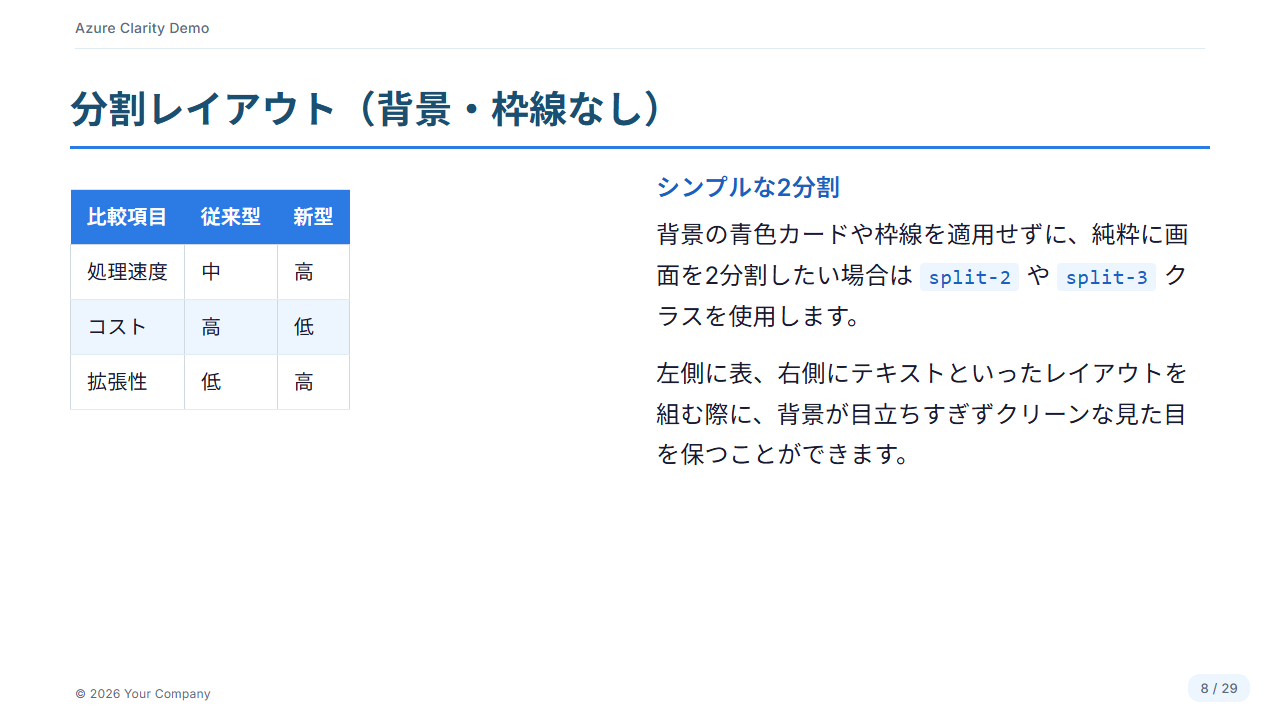
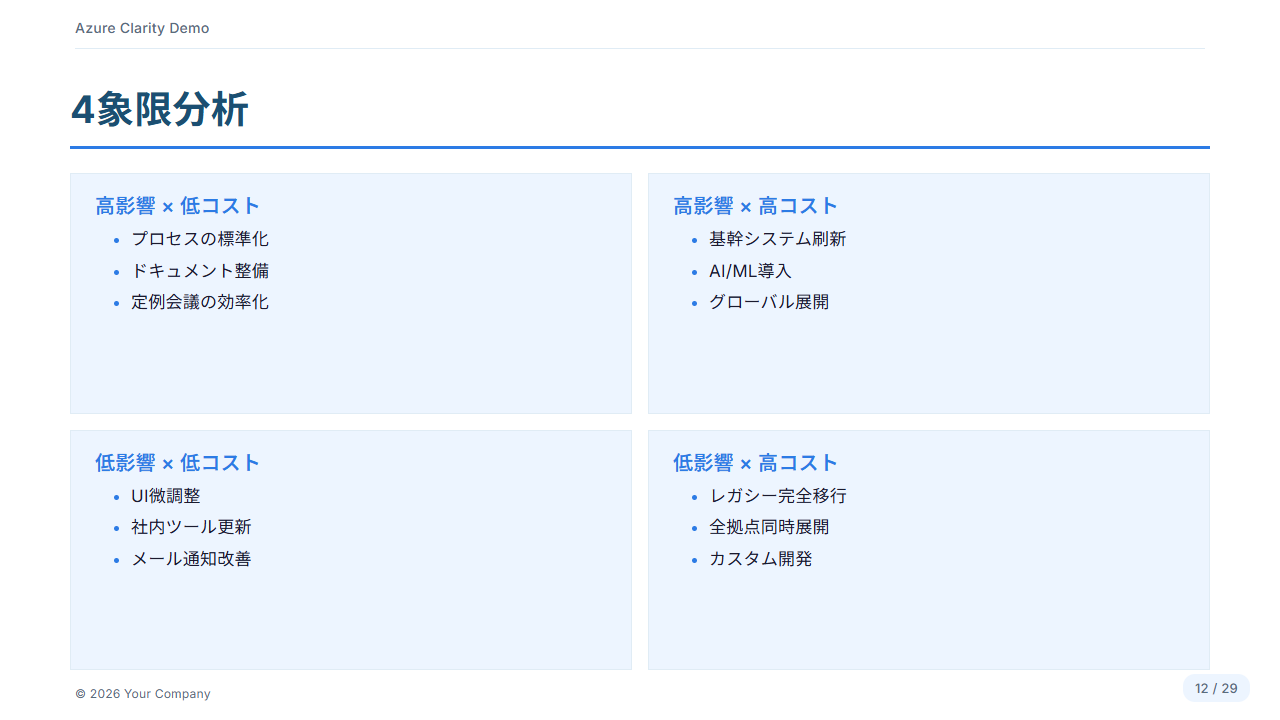
improve readme images

diff --git a/README.md b/README.md
@@ -32,13 +32,15 @@ paginate: true
 ```
 
 <details>
-<summary>📸 スライドプレビュー</summary>
+<summary>📸 Slides Preview</summary>
 
 ![Azure Clarity Cover](assets/screenshots/azure-clarity-cover.png)
 ![Azure Clarity TOC](assets/screenshots/azure-clarity-toc.png)
 ![Azure Clarity Columns](assets/screenshots/azure-clarity-cols.png)
 ![Azure Clarity Grid](assets/screenshots/azure-clarity-grid.png)
 ![Azure Clarity Timeline](assets/screenshots/azure-clarity-timeline.png)
+![Azure Clarity Callout](assets/screenshots/azure-clarity-callout.png)
+![Azure Clarity Step](assets/screenshots/azure-clarity-step.png)
 
 </details>
 
@@ -59,13 +61,15 @@ paginate: true
 ```
 
 <details>
-<summary>📸 スライドプレビュー</summary>
+<summary>📸 Slides Preview</summary>
 
 ![Prism Edge Cover Wave](assets/screenshots/prism-edge-cover-wave.png)
 ![Prism Edge Cover Diagonal](assets/screenshots/prism-edge-cover-diagonal.png)
 ![Prism Edge Cover Noir](assets/screenshots/prism-edge-cover-noir.png)
 ![Prism Edge Columns](assets/screenshots/prism-edge-cols.png)
 ![Prism Edge Grid](assets/screenshots/prism-edge-grid.png)
+![Prism Edge gradnum](assets/screenshots/prism-edge-gradnum.png)
+![Prism Edge statnum](assets/screenshots/prism-edge-statnum.png)
 
 </details>
 
@@ -86,7 +90,7 @@ paginate: true
 ```
 
 <details>
-<summary>📸 スライドプレビュー</summary>
+<summary>📸 Slides Preview</summary>
 
 ![Warm Sunnyday Cover](assets/screenshots/warm-sunnyday-cover.png)
 ![Warm Sunnyday Profile](assets/screenshots/warm-sunnyday-profile.png)
